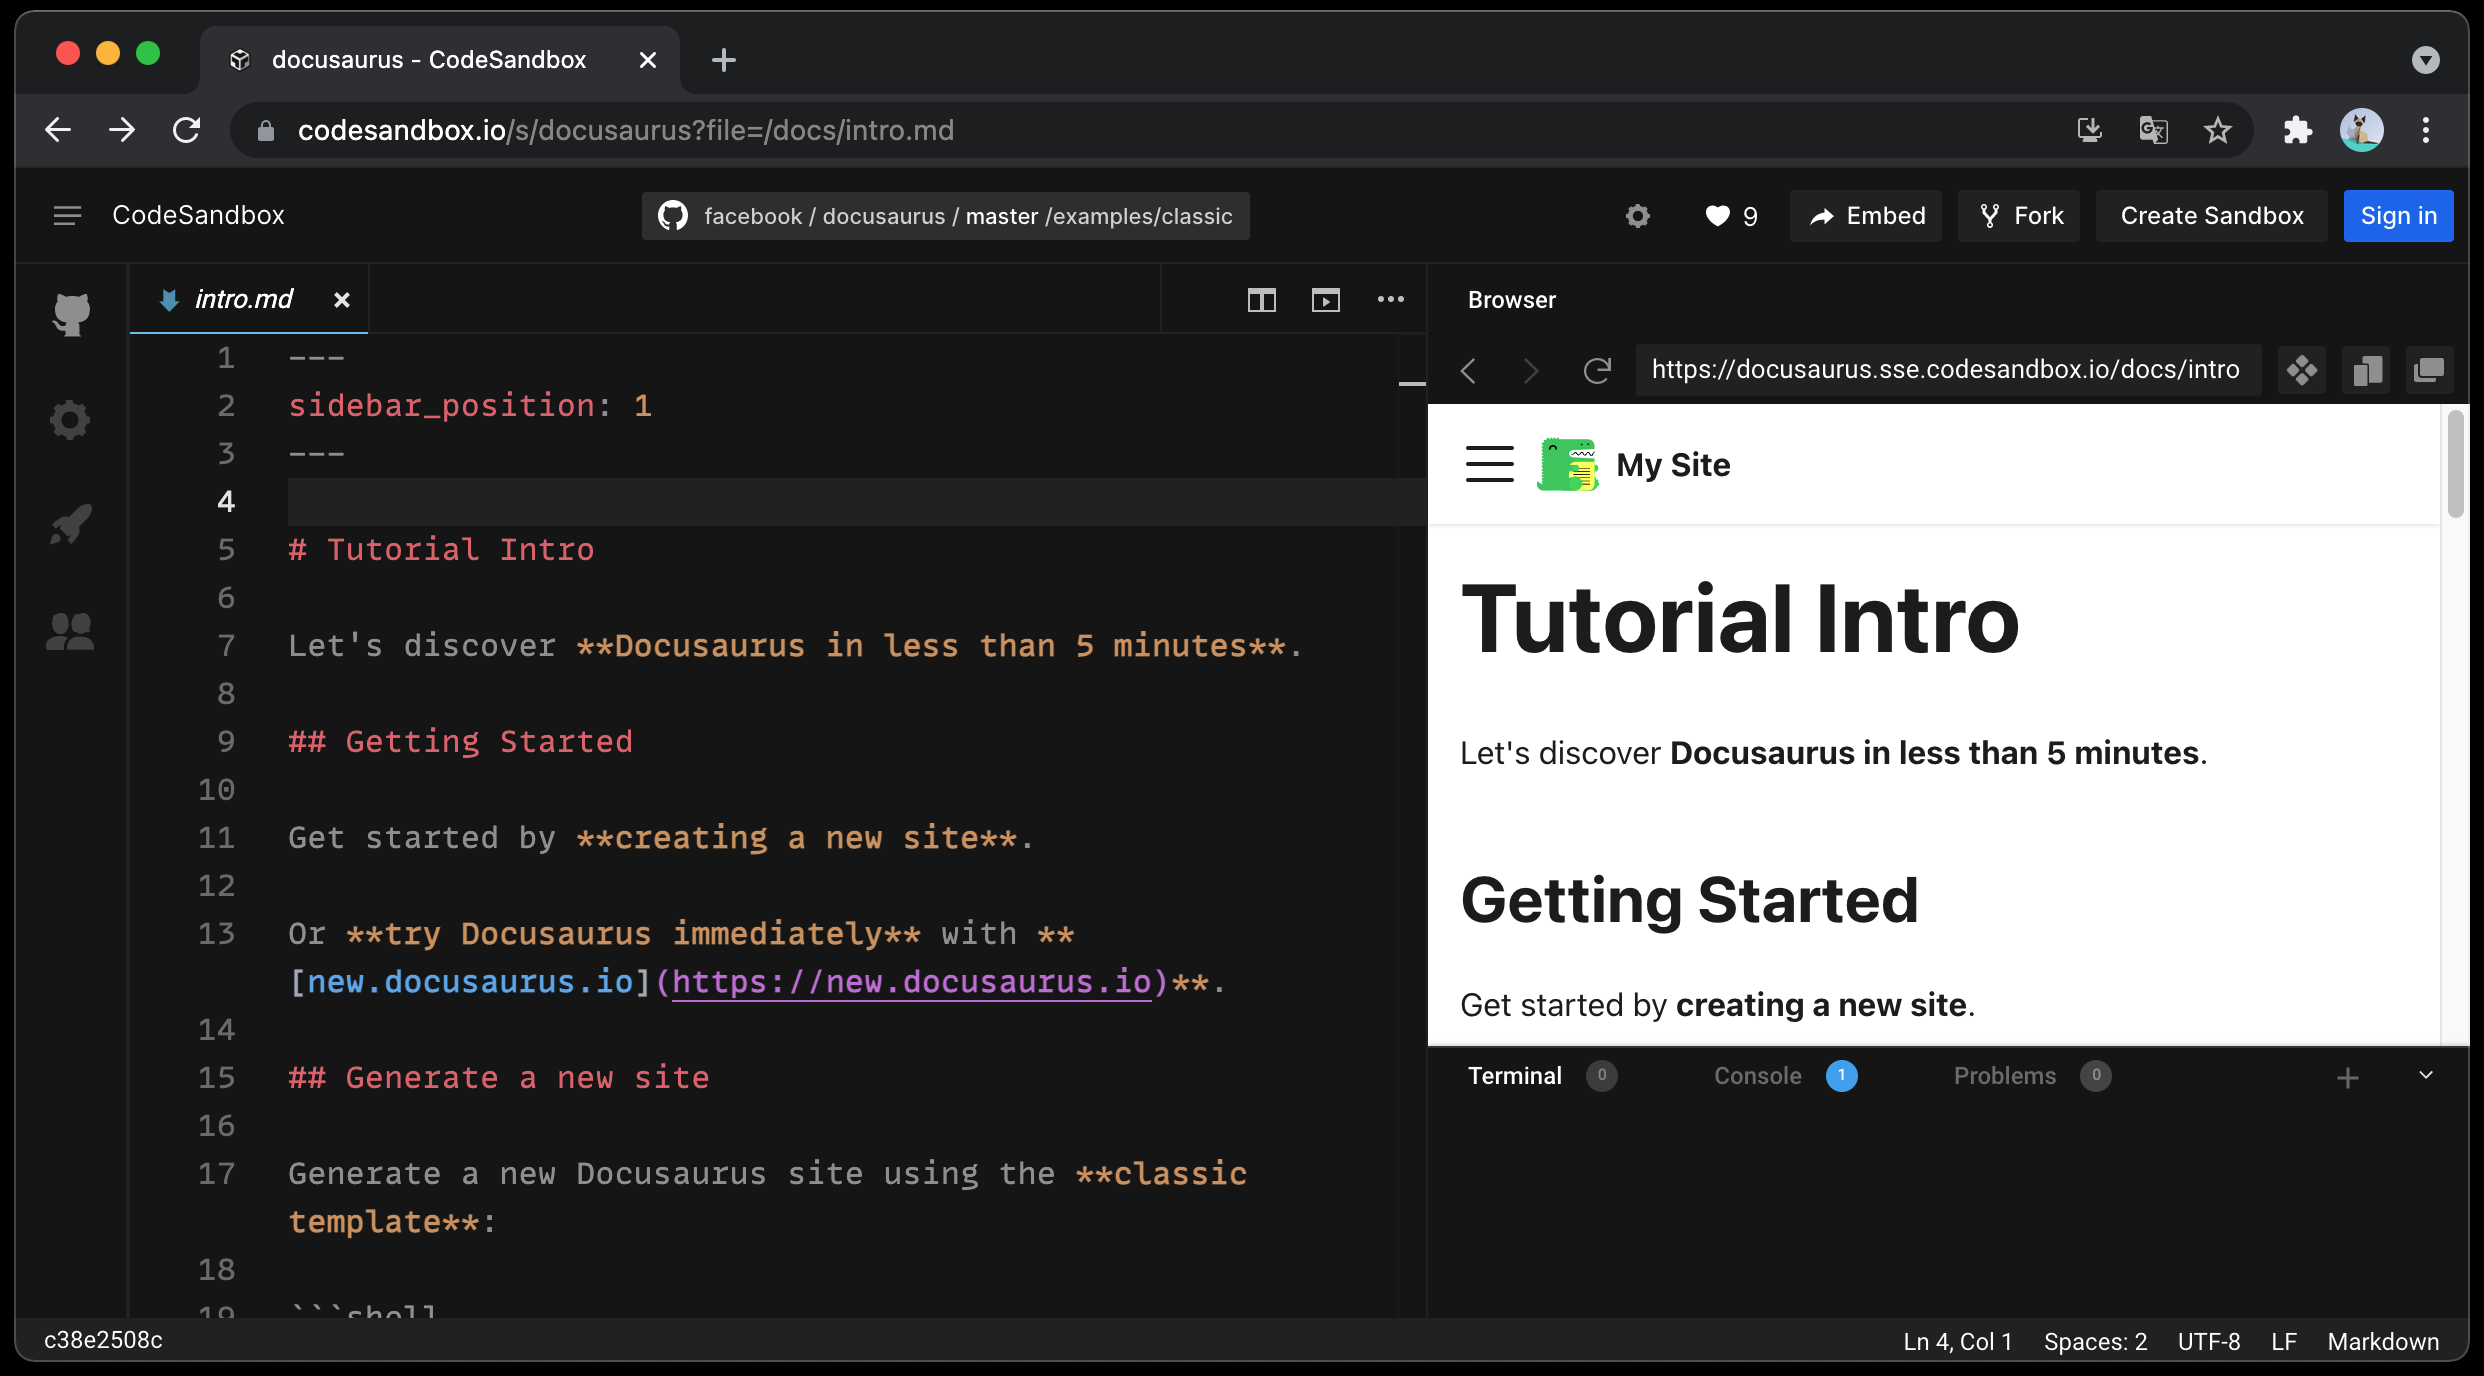
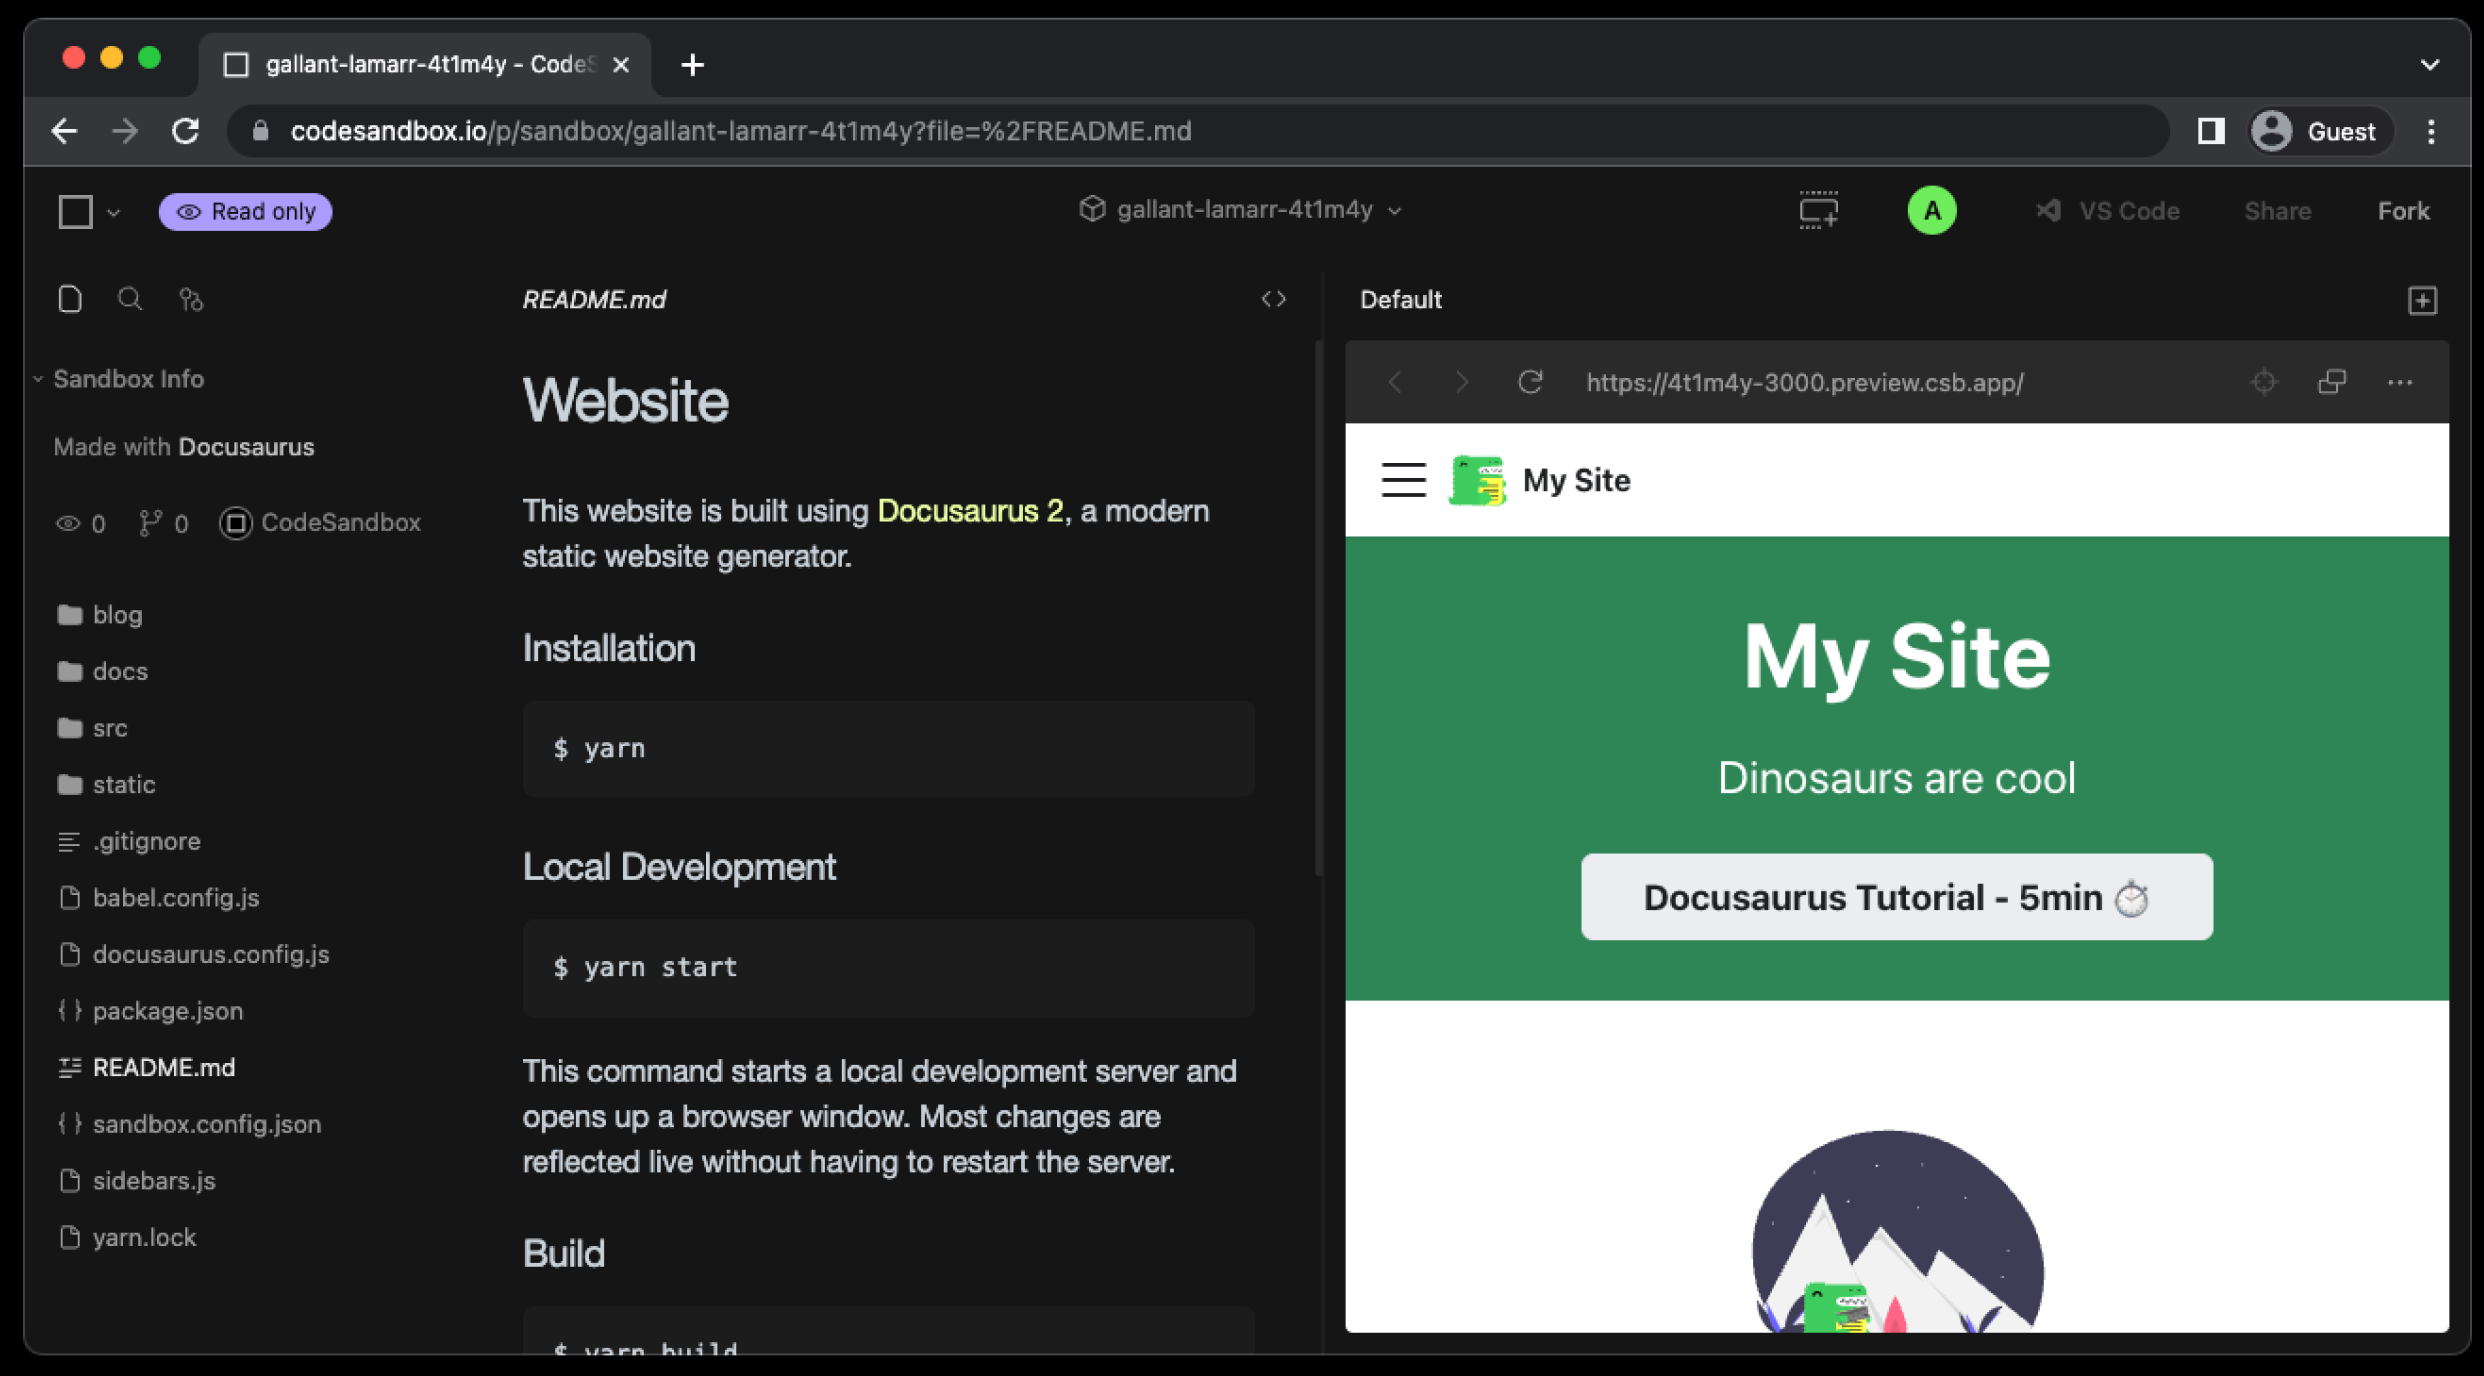
docs(playground): use CodeSandbox cloud sandboxes (#8576)

diff --git a/admin/new.docusaurus.io/functionUtils/playgroundUtils.ts b/admin/new.docusaurus.io/functionUtils/playgroundUtils.ts
@@ -10,11 +10,8 @@ import type {HandlerEvent, HandlerResponse} from '@netlify/functions';
 const CookieName = 'DocusaurusPlaygroundName';
 
 const PlaygroundConfigs = {
-  // Do not use this one, see
-  // https://github.com/codesandbox/codesandbox-client/issues/5683#issuecomment-1023252459
-  // codesandbox: 'https://codesandbox.io/s/docusaurus',
   codesandbox:
-    'https://codesandbox.io/s/github/facebook/docusaurus/tree/main/examples/classic',
+    'https://codesandbox.io/p/sandbox/github/facebook/docusaurus/tree/main/examples/classic?file=%2FREADME.md',
 
   // Not updated
   // stackblitz: 'https://stackblitz.com/fork/docusaurus',

diff --git a/website/src/components/Playground/index.tsx b/website/src/components/Playground/index.tsx
@@ -21,8 +21,9 @@ const Playgrounds = [
     url: 'https://docusaurus.new/codesandbox',
     description: (
       <Translate id="playground.codesandbox.description">
-        CodeSandbox is a popular playground solution. Runs Docusaurus in a
-        remote Docker container.
+        CodeSandbox is an online code editor and development environment that
+        allows developers to create, share and collaborate on web development
+        projects in a browser-based environment
       </Translate>
     ),
   },